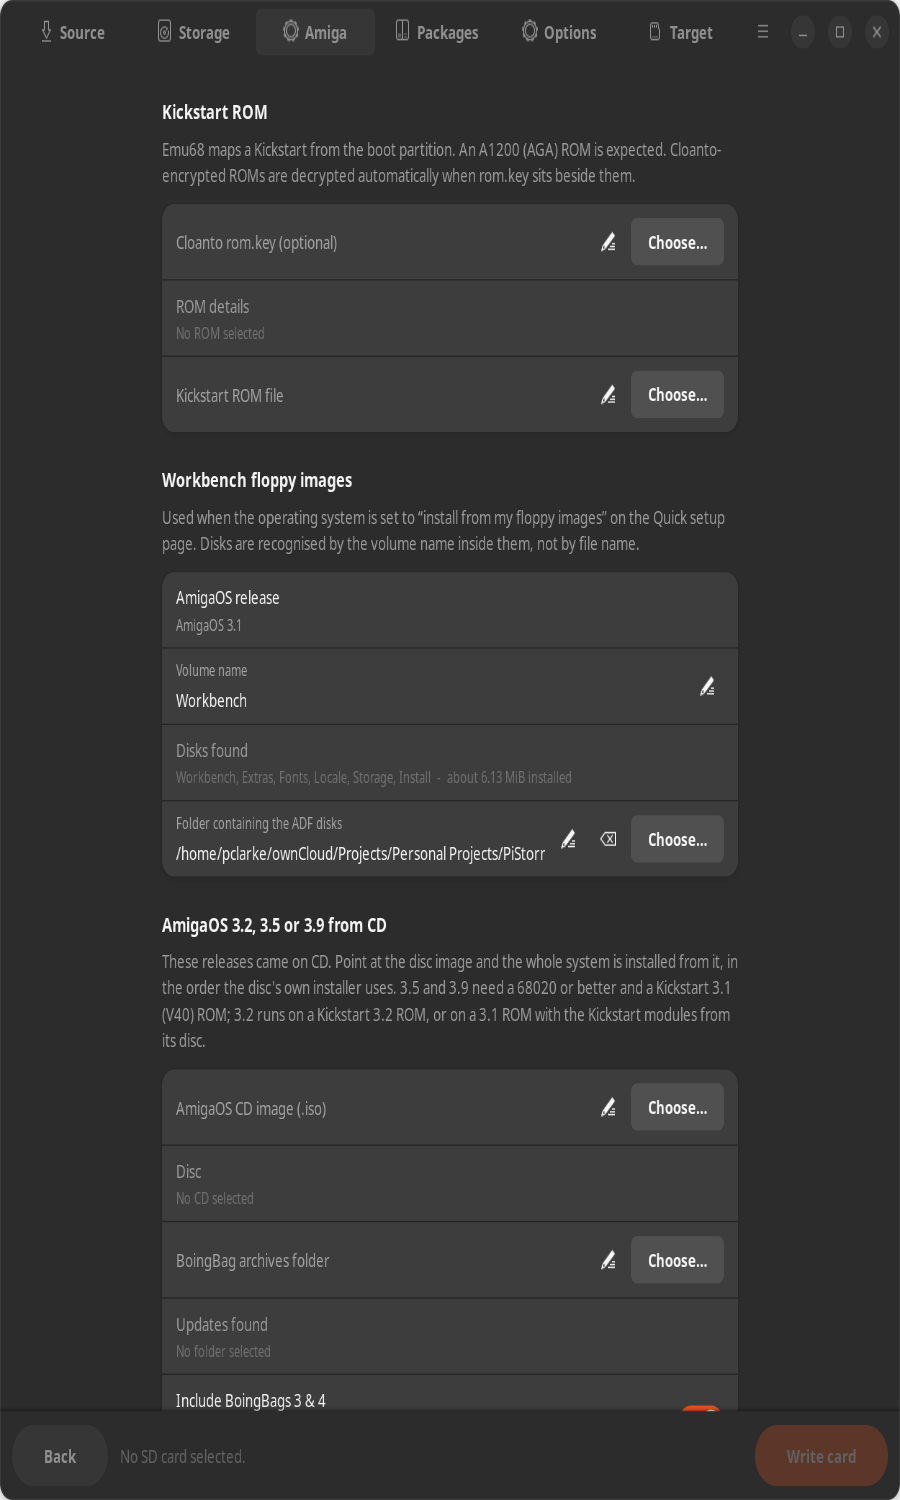
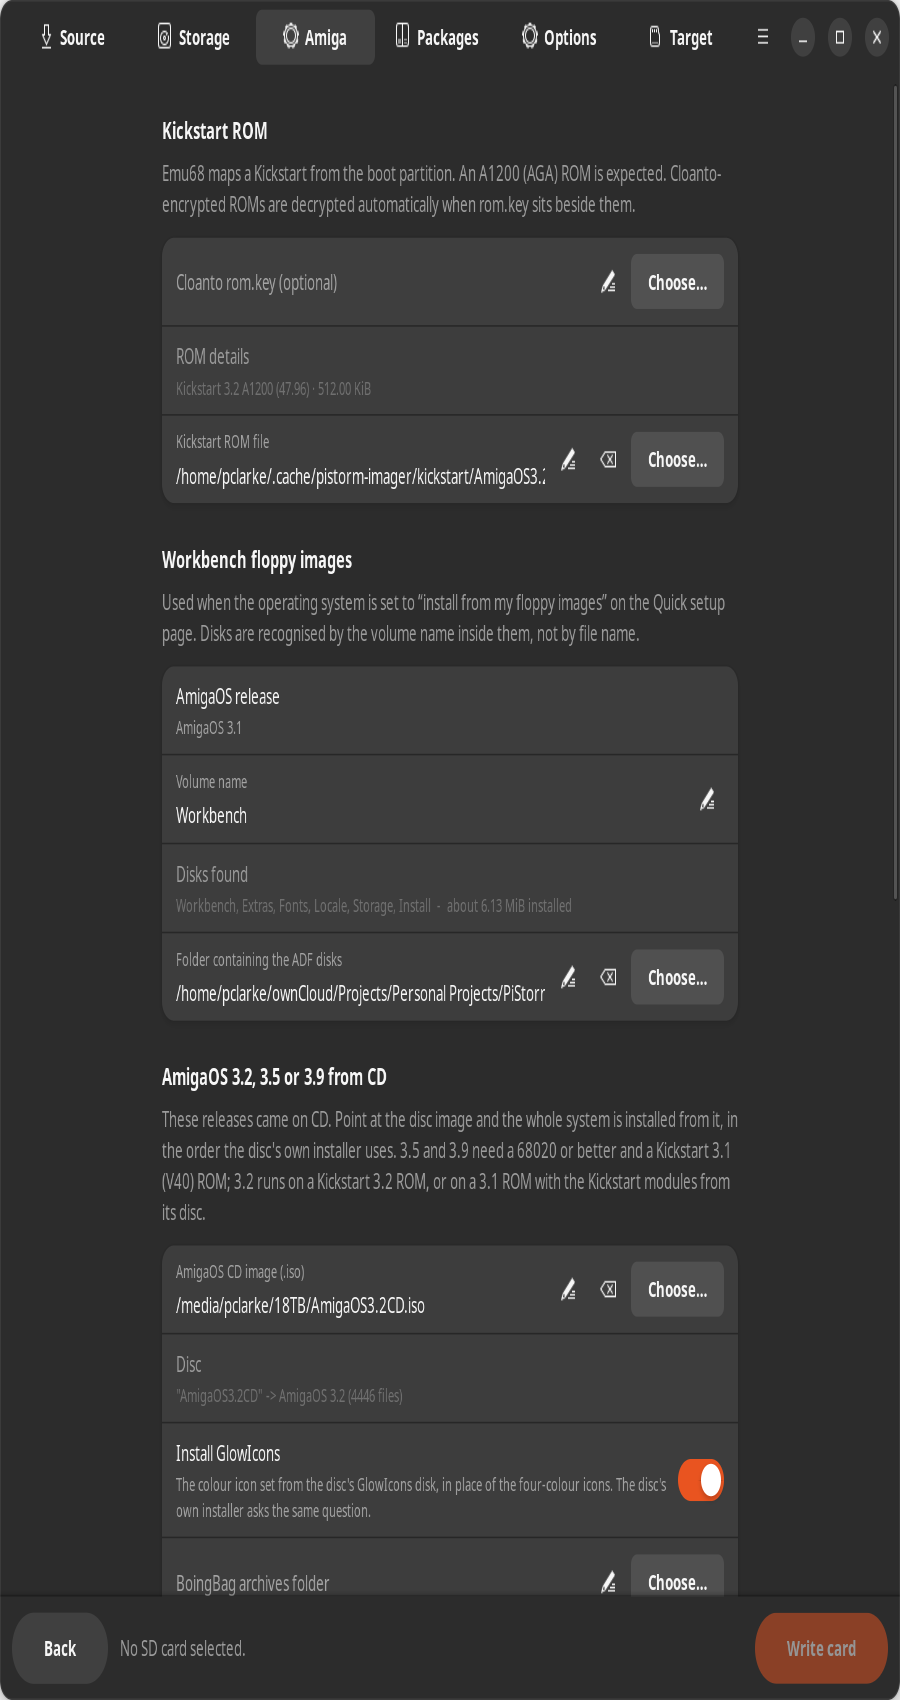
Bring the documentation up to date with the AmigaOS 3.2 install
The overview, the window's page table and the source list now say that
AmigaOS can be installed from a CD image as well as from floppies.

The Kickstart table is rewritten. It showed a Kickstart being checked
for a stock machine, which a build no longer does: only a PiStorm's
Kickstart is a file, so only a PiStorm's is checked.

The floppy section no longer says it follows the install script for
every release. It says what is done with a 3.2 floppy set, which is the
3.1 layout, and points at the CD install.

Also documented: metadata sidecars on an imported directory drive, the
arguments tests/bootcheck.py takes, what has and has not been booted,
and that every 3.2 ROM is shown as an A1200's.

The CD screenshot is taken with a 3.2 disc chosen, so it shows the
release read off the disc, the GlowIcons switch and the Kickstart the
disc brings. It is taken last, so its notice appears in no other.

diff --git a/tests/shots.py b/tests/shots.py
@@ -36,6 +36,9 @@ from pistorm_imager.core import rdb  # noqa: E402
 OUT = ROOT / "docs" / "images"
 SCRATCH = Path(tempfile.mkdtemp(prefix="pistorm-shots-"))
 EXPORT_IMAGE = SCRATCH / "card-backup.img"
+#  The disc the CD picture is taken with: a real AmigaOS 3.2 CD where this
+#  machine has one, so the figures in the picture are the real ones.
+REAL_CD = Path("/media") / Path.home().name / "18TB" / "AmigaOS3.2CD.iso"
 
 WIDTH = 900
 HEIGHT = 760
@@ -61,6 +64,21 @@ def make_export_image() -> None:
     with open(EXPORT_IMAGE, "wb") as handle:
         handle.truncate(total)
         table.write(handle, 0)
+
+
+def cd_image() -> Path | None:
+    """An AmigaOS 3.2 disc to show: the real one, or a stand-in shaped like it."""
+    if REAL_CD.is_file():
+        return REAL_CD
+    sys.path.insert(0, str(ROOT / "tests"))
+    import test_amigacd                                     # noqa: PLC0415
+    from pistorm_imager.core import amigacd                 # noqa: PLC0415
+    if not test_amigacd.HAVE_GENISOIMAGE:
+        return None
+    release = amigacd.RELEASES_BY_KEY["3.2"]
+    return test_amigacd.make_iso(
+        test_amigacd.make_disc_tree(release, SCRATCH / "cd"),
+        SCRATCH / "AmigaOS3.2CD.iso", rock_ridge=True, volume=release.volume)
 
 
 def settle(milliseconds: int = 400) -> None:
@@ -115,17 +133,32 @@ def on_activate(app: ImagerApplication) -> None:
             settle(450)
             shot(window, name)
 
-        #  The Amiga page carries two groups that matter to a 3.5/3.9 build
-        #  and do not fit above the fold at the usual height.
-        window.stack.set_visible_child_name("amiga")
-        settle(450)
-        shot(window, "10-amigaos-cd", height=1500)
-
         window._choose_export()
         settle(450)
         window.export_source.set_path(str(EXPORT_IMAGE))
         settle(900)
         shot(window, "09-export-drives")
+
+        #  Last, because choosing a disc changes the Kickstart and says so,
+        #  and neither belongs in any picture but this one.
+        window._choose_basic()
+        settle(450)
+        window._set_customising(True)
+        settle(450)
+        #  The Amiga page carries two groups that matter to a build from CD
+        #  and do not fit above the fold at the usual height.  Taken with a
+        #  disc chosen, because what the page says about a disc is the point:
+        #  the release it was read as, the question it asks, and the Kickstart
+        #  it brings.
+        window.stack.set_visible_child_name("amiga")
+        disc = cd_image()
+        if disc is not None:
+            window.os_cd_row.set_path(str(disc))
+            window._on_os_cd_chosen()
+        #  Long enough for the notice that the Kickstart changed to go.
+        settle(7000)
+        shot(window, "10-amigaos-cd", height=1700)
+
     except Exception:                             # noqa: BLE001 - report and quit
         import traceback
         traceback.print_exc()

diff --git a/README.md b/README.md
@@ -24,7 +24,7 @@ drive brings no Workbench, so it needs the floppies alongside it.
 
 | Task | What happens |
 | --- | --- |
-| **Build a new card** | Writes an MBR with a FAT32 boot partition (Emu68 + Raspberry Pi firmware + your Kickstart) and a type `0x76` Amiga partition carrying a Rigid Disk Block. Optionally installs AmigaOS onto it from a set of Workbench floppy images, so the card boots straight to Workbench. |
+| **Build a new card** | Writes an MBR with a FAT32 boot partition (Emu68 + Raspberry Pi firmware + your Kickstart) and a type `0x76` Amiga partition carrying a Rigid Disk Block. Optionally installs AmigaOS onto it, from a set of Workbench floppy images or from an [AmigaOS 3.2, 3.5 or 3.9 CD image](#amigaos-32-35-and-39), so the card boots straight to Workbench. |
 | **Write a pre-built image** | Streams PiMiga, an Emu68 Hatcher image or a backup of your own card onto the target, then re-applies your Emu68 build and settings. Optionally turns the card's leftover space into a new Amiga partition. |
 | **Write a drive image unchanged** | Takes a WinUAE/FS-UAE/HstWB `.hdf` - the Amiga drive on its own, with no partition table - and builds the boot partition around it. Images with no Rigid Disk Block get one generated for them, and a whole card image such as PiMiga can be used here too: only its Amiga drive is taken, so it can be moved onto a card of a different size with a fresh boot partition. Every imported drive is checked for PiStorm compatibility and repaired. |
 | **Update an existing card** | Touches only the boot partition: swap the Emu68 version, change the Kickstart, alter the HDMI mode, add WiFi. Everything on the Amiga side is left alone. |
@@ -112,13 +112,18 @@ All three were sold on CD, so they are a source of their own rather than
 another release in the ADF list. Point at the `.iso` and the whole system is
 installed from it.
 
+![The AmigaOS CD group on the Amiga page, with a 3.2 disc chosen](docs/images/10-amigaos-cd.png)
+
+The disc is read as soon as it is chosen: which release it is, about how many
+files an install will copy, and - for a disc that asks one - the question its
+own installer would have put. With a 3.2 disc and a PiStorm, the Kickstart row
+above it changes too, to the ROM the disc carries.
+
 The three are one installer. A release is a list of *layers* - a tree to copy
 and where it lands - and a layer may name a tree on the disc or a tree inside
 a floppy image on the disc. Recognising a disc, laying it out and checking it
 against the machine are the same code for all of them; what differs is the
 table each release is described by.
-
-![The AmigaOS CD group on the Amiga page](docs/images/10-amigaos-cd.png)
 
 ### The layout comes from the disc, not from guesswork
 
@@ -170,7 +175,11 @@ its word it would leave the modules off, and a 3.1 chip cannot start 3.2
 without them. With them, the same drive boots on either.
 
 The ROM is found by the model in its name and proved by reading its header -
-the disc keeps the CDTV's extended ROM in the same drawer. Only a Kickstart
+the disc keeps the CDTV's extended ROM in the same drawer. An A500, A600 or
+A2000 is given the ROM the disc carries for those models, not the A1200's. It
+is nonetheless *shown* as "Kickstart 3.2 A1200 (47.96)": a ROM is named here by
+the version in its header, and every 3.2 ROM on the disc is 47.96 whichever
+machine it was built for. The file name beside it is the one to go by. Only a Kickstart
 this application chose is replaced; one picked by hand is left where it is.
 
 **Processor libraries.** 3.2's boot script runs `CPU CHECKINSTALL`, which stops
@@ -281,15 +290,28 @@ machine, a stock machine with an accelerator fitted, and a PiStorm - where Emu68
 replaces the processor with a 68040-class core.
 
 ```
-a500   stock       KS V40: needs MC68020 or better, has MC68000   refused
-a500   accelerator KS V40: allowed
-a500   pistorm     KS V40: allowed
-a500   pistorm     KS V37: needs Kickstart 3.1 (V40), ROM is V37  refused
-a1200  stock       KS V47: needs Kickstart 3.1 (V40), ROM is V47  refused
-a500   stock       KS V40: AmigaOS 3.2                            allowed
-a500   stock       KS V39: AmigaOS 3.2 needs Kickstart 3.1 (V40)
-                           or newer, ROM is V39                   refused
+AmigaOS 3.9
+a500   stock        needs MC68020 or better, has MC68000          refused
+a500   accelerator                                                allowed
+a1200  stock        (it shipped with a 68020)                     allowed
+a500   pistorm      KS V40                                        allowed
+a500   pistorm      KS V37: needs Kickstart 3.1 (V40), ROM is V37 refused
+a1200  pistorm      KS V47: needs Kickstart 3.1 (V40), ROM is V47 refused
+
+AmigaOS 3.2
+a500   stock                                                      allowed
+a500   pistorm      KS V40, KS V46, KS V47                        allowed
+a500   pistorm      KS V39: needs Kickstart 3.1 (V40) or newer,
+                            ROM is V39                            refused
 ```
+
+**The Kickstart is only checked where it is a file.** Emu68 loads the
+Kickstart from the boot partition, so on a PiStorm the ROM that was chosen is
+the ROM the machine will run and can be held against the release. A stock
+machine, or one with an accelerator card, runs from the chip on its board. No
+file chosen here says what that chip is, so it is not checked, and nothing is
+decided on the strength of it - which is why the rows above for those machines
+name no Kickstart at all.
 
 A PiStorm clears the processor requirement on every machine, so that check can
 only ever refuse a stock machine or an under-specified accelerator. It is
@@ -420,7 +442,7 @@ decisions are made.
 | --- | --- |
 | **Source** | The task - the five listed under [What it does](#what-it-does) - and where the Amiga system comes from: a new drive, a PiMiga installation, or a hard disk image. |
 | **Storage** | The size of the system drive, whether the rest of the card becomes a PFS3 work drive, whether the card carries an Amiga drive at all, and the Amiga partitions themselves. |
-| **Amiga** | Which Amiga the card is for, which Raspberry Pi is on its PiStorm board, how much chip RAM is fitted, how you look at it, the Kickstart ROM, and the Workbench floppy images. |
+| **Amiga** | Which Amiga the card is for, which Raspberry Pi is on its PiStorm board, how much chip RAM is fitted, how you look at it, the Kickstart ROM, and what AmigaOS is installed from: the Workbench floppy images, or an AmigaOS CD image and what goes with it. |
 | **Packages** | The optional software, fetched from its publisher rather than taken from a drive you happen to have - and, where something chosen needs one, [which USB socket](#which-socket-and-the-two-files-that-have-to-agree) the Amiga is given. |
 | **Options** | HDMI output, the Raspberry Pi's own settings, the [boot partition add-ons](#add-ons-that-go-onto-the-boot-partition), and the Emu68 switches, which end up in `cmdline.txt` or, on Emu68 1.1 and later, as [device tree overlays](#emu68-11-moved-four-settings-out-of-cmdlinetxt) in `config.txt`. |
 | **Target** | Where the result goes, how big the boot partition is, and **what this will build**. |
@@ -522,7 +544,8 @@ pistorm_imager/
   core/
     fat32.py     FAT32 reader/writer working directly on an image or device
     amigafs.py   Amiga OFS/FFS: reads ADFs, creates and fills FFS partitions
-    amigaos.py   recognising Workbench disks and installing them
+    amigaos.py   recognising Workbench disks and installing them; copying
+                 a Linux tree onto an Amiga volume, metadata sidecars and all
     mbr.py       DOS partition table
     rdb.py       Amiga Rigid Disk Block: partitions and embedded file systems
     emu68.py     GitHub releases, asset naming, Raspberry Pi firmware
@@ -535,6 +558,7 @@ pistorm_imager/
     pfs3.py      PFS3: reads real volumes, creates and fills new ones
     compat.py    automatic emulator-to-PiStorm fixes (RTG driver, startup)
     amigainfo.py Workbench .info icons, enough to retarget tool types
+                 and to place an icon and its drawer's window
     machines.py  target machine profiles: chipset, processor, board,
                  Raspberry Pi, chip RAM, Kickstart, display
     iso9660.py   reading CD images: ISO 9660 with Joliet and Rock Ridge
@@ -552,7 +576,8 @@ pistorm_imager/
     updates.py   asking GitHub whether there is a newer release of this tool
     devices.py   finding and describing removable drives
     prepare.py   partitioning and formatting the target
-    util.py      sizes, progress reporting, stream copying
+    util.py      sizes, progress reporting, stream copying, expanding
+                 compress (.Z) files
     builder.py   the orchestrator
     jobs.py      job serialisation across the privilege boundary
   ui/            the GTK4 interface
@@ -562,7 +587,9 @@ pistorm_imager/data/   the icon and desktop entry, in the layout they
                  install into, and shipped inside the wheel
 docs/images/     the screenshots above, rendered from the real window by
                  tests/shots.py rather than captured by hand
-tests/           unit tests plus a real end-to-end image build
+tests/           unit tests plus a real end-to-end image build;
+                 shots.py redraws the screenshots and bootcheck.py boots a
+                 built card in FS-UAE
 ```
 
 ## Tests
@@ -596,6 +623,22 @@ network interface answers, so "does the machine still get to Workbench" is a
 question worth asking of the card rather than of the code. A card carrying
 lwip-amiga and the wired Ethernet driver reaches the end in about four seconds
 with no network hardware present at all.
+
+The Kickstart, the processor and the machine can be named after the card, in
+that order, and default to the A1200 3.1 ROM in `samples/`, a 68040 and an
+A1200:
+
+```
+python3 tests/bootcheck.py card.img 3.2.rom 68020
+python3 tests/bootcheck.py drive.hdf 3.1.rom 68030 a500
+```
+
+The processor matters for AmigaOS 3.2. Its boot script stops a 68040 that has
+no `68040.library`, and Emu68 carries one in its kernel where an emulator does
+not - so a 3.2 card built for a PiStorm is booted here as a 68020, which that
+check lets through. The drive handed to the emulator keeps each file's
+protection bits, in the sidecars described under
+[Linux file names, Amiga file names](#linux-file-names-amiga-file-names).
 
 Both the ADF reader and the FFS writer were cross-checked against
 [amitools](https://github.com/cnvogelg/amitools): every one of the 153 files on
@@ -634,7 +677,10 @@ hardware they are for. And a card built here from PiMiga - its System drive on a
 multi-gigabyte PFS3 partition - has been lifted out as an `.hdf` and booted in
 FS-UAE, which runs the real PFS3 19.2 handler out of the RDB rather than this
 project's own reader. That is what found and then settled five PFS3 writer bugs
-that were silent at build time and fatal at mount.
+that were silent at build time and fatal at mount. And AmigaOS 3.2 installed
+from its CD boots to Workbench in FS-UAE four ways: for an A1200 PiStorm on
+Kickstart 3.1, on Kickstart 3.2 and on the disc's own ROM with GlowIcons, and
+for an A500 with a 68030 accelerator on Kickstart 3.1.
 
 **Also verified on hardware, since:** cards built from a ClassicWB drive with
 the optional software installed, on a four-partition layout (a system drive,
@@ -644,7 +690,16 @@ palette editor opening on every boot, installers re-running at every startup,
 `MultiView` named in default icons in a way Workbench could not resolve - each
 reported from a running machine rather than from a test.
 
-**Still not tried on hardware:** the RTG and dual-output display handling,
+**Still not tried on hardware:** AmigaOS 3.2, 3.5 and 3.9 installed from CD.
+For 3.2 on a PiStorm two things rest on reading rather than on a running
+machine: that Emu68's own `68040.library` satisfies the boot script's processor
+check, and that `LoadModule` - which a Kickstart 3.1 needs in order to start
+3.2 - survives the reboot it performs under Emu68. A Kickstart 3.2, which is
+what a PiStorm card is given from the disc, does not use `LoadModule` at all.
+Nor has the 3.2 ROM the disc carries for the A500, A600 and A2000 been booted
+under Emu68; the A1200's has, in an emulator.
+
+**Also not tried on hardware:** the RTG and dual-output display handling,
 including the switcher scripts, which needs a monitor on the Pi's HDMI rather
 than the 15 kHz output these cards have been built for. It is checked against
 the format specifications, against independent tools and in an emulator, which
@@ -655,8 +710,9 @@ is not the same as an Amiga drawing a screen from it.
 Quick setup asks a single question about where the card's contents come from,
 because the answers are alternatives rather than additions:
 
-- **Default** - a new drive, which can then have Workbench installed onto it
-  from your floppy images, or be left as bare formatted partitions.
+- **Default** - a new drive, which can then have AmigaOS installed onto it
+  from your floppy images or from an AmigaOS 3.2, 3.5 or 3.9 CD image, or be
+  left as bare formatted partitions.
 - **PiMiga installation** - its drives, games and demos wholesale, with the
   graphics driver replaced for the target machine.
 - **Amiga hard disk image** - the partition scheme and contents of an existing
@@ -1303,8 +1359,18 @@ follows the AmigaOS install script:
 | Install | its own `Install` drawer, so its cut-down `C/`, `L/` and `Libs/` cannot replace the full versions |
 
 File contents, protection bits, comments and datestamps are all carried across
-unchanged. The partition being installed onto must be FFS, because that is the
-only Amiga file system this tool can create.
+unchanged. The partition being installed onto must be FFS or PFS3.
+
+**AmigaOS 3.2 is better installed from its CD.** A folder of 3.2 floppy images
+is recognised, and the table above is what is done with it - which is the 3.1
+layout, and not what the 3.2 installer does. The Storage disk is copied whole
+into `Storage` rather than shared out between `Prefs`, `Classes`, `Libs` and
+`Devs`; the boot script is the Workbench disk's, which is written for a floppy;
+one of the fifteen language disks is taken as *the* Locale disk; compressed
+catalogs and help files stay compressed; and the Kickstart modules and
+processor libraries are not installed at all. The [CD install](#amigaos-32-is-floppy-images-on-a-disc)
+reads the same floppy images off the disc and does each of those as the
+installer does.
 
 Put your own Workbench disks and Kickstart in `samples/` and they are found
 automatically - see `samples/README.md`. None of that material is kept in this
@@ -3934,6 +4000,14 @@ differences have to be settled on the way in:
 
   Two drawers of the same name are **merged into one** rather than either being
   renamed, which would leave a game looking for half of its files.
+* **What a Linux file cannot hold.** An Amiga file carries protection bits, a
+  datestamp and a comment, and a Linux directory has nowhere to put them.
+  Emulators that mount a directory as a drive keep them in a sidecar beside
+  each file, named `<file>.uaem`. Where a tree has them they are read, so a
+  script keeps its script bit and a command its pure bit, and the sidecars
+  themselves are not copied onto the card. A `.uaem` file with no file beside
+  it to describe is an ordinary file, and is copied as one. A tree without
+  sidecars is copied as it always was.
 * **Length.** FFS allows 30 characters, PFS3 far more. Only a name that really
   had to be cut short is reported as shortened, and that is the warning worth
   acting on: a shortened name can stop a game starting, because a WHDLoad slave

diff --git a/samples/README.md b/samples/README.md
@@ -27,4 +27,9 @@ dump (`[!]`) is preferred over a modified one where both are present.
 Rigid Disk Block already contains a PFS3 handler, so you may not need to find
 one separately.
 
+An AmigaOS 3.2, 3.5 or 3.9 CD image is not looked for here: it is chosen in the
+window, on the Amiga page, and can live wherever you keep it. A 3.2 disc brings
+Kickstart ROMs of its own, which a PiStorm card is given when no other has been
+chosen.
+
 The tests that use these files skip when they are absent.
